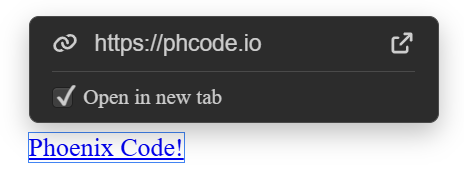
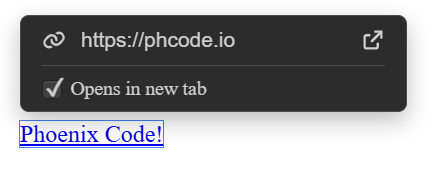
feat: update edit hyperlink docs as strings are changed

Changed region(s): [[0.0301, 0.0802, 0.963, 0.8824], [0.8426, 0.1604, 0.9028, 0.2941]]

diff --git a/docs/07-Pro Features/01-live-preview-edit.md b/docs/07-Pro Features/01-live-preview-edit.md
@@ -178,8 +178,8 @@ To edit a hyperlink, select an `<a>` element and click the **Edit Hyperlink** bu
 
 The input box includes:
 - **URL input**: Edit the link's destination (`href` attribute). Press `Enter` to save your changes or `Esc` to cancel.
-- **Open in new tab**: Check this option to make the link open in a new tab. Checking this option will add `target="_blank"` in your source code.
-- **Open URL**: Clicking on this button opens the URL in your default browser. This option is available only in desktop apps.
+- **Opens in new tab**: Check this option to make the link open in a new tab. Checking this option will add `target="_blank"` in your source code.
+- **Open this link**: Clicking on this button opens the URL in your default browser. This option is available only in desktop apps.
 
 ![Edit Hyperlink](./images/edit-hyperlink.png "Edit Hyperlink")
 
